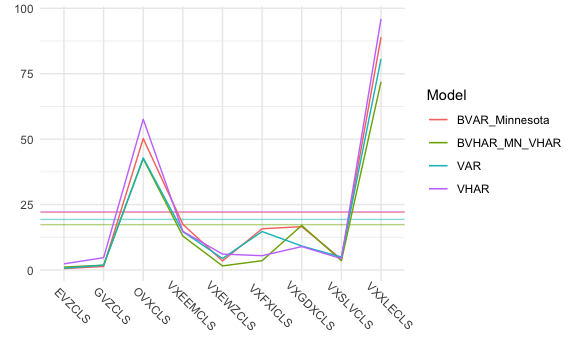
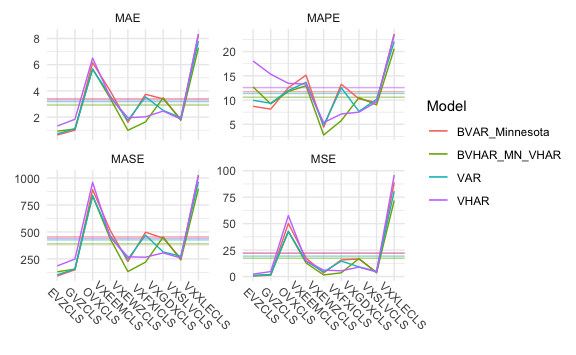
change plot loss to gg loss with facet feature

diff --git a/README.md b/README.md
@@ -271,7 +271,7 @@ list(
   forecast_bvar,
   forecast_bvhar_v2
 ) %>% 
-  plot_loss(y = etf_te, mean_line = TRUE, mean_param = list(alpha = .5)) +
+  gg_loss(y = etf_te, mean_line = TRUE, mean_param = list(alpha = .5)) +
   ggplot2::theme_minimal() +
   ggplot2::theme(axis.text.x = ggplot2::element_text(angle = -45, vjust = -1))
 ```
